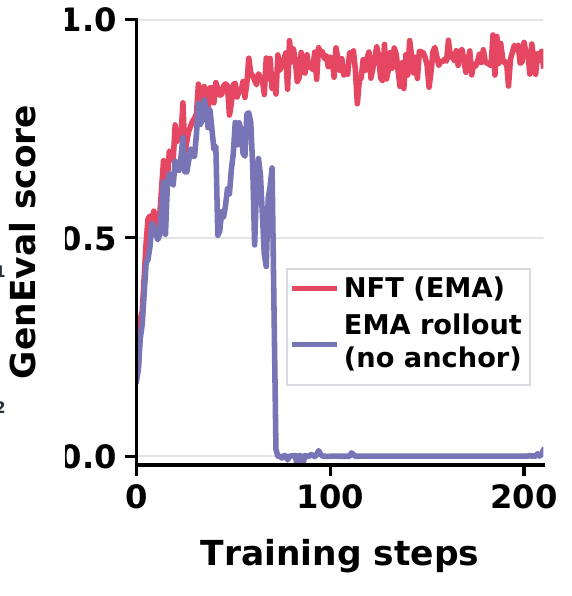
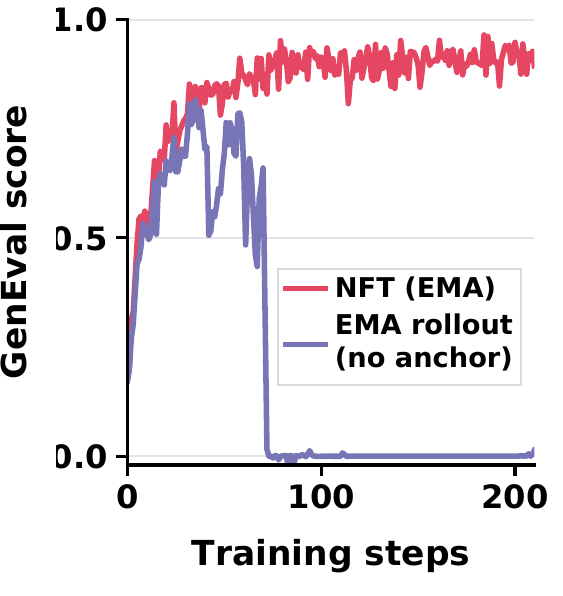
Clean the restoration panel crop without changing annotations

diff --git a/docs/index.html b/docs/index.html
@@ -48,7 +48,7 @@
         <figure class="research-figure"><a href="assets/consistency-force.webp"><img src="assets/consistency-force.webp" width="1078" height="775" loading="lazy" alt="NFT's positive pull and negative push only partially cancel their forward-reverse consistency forces."></a><figcaption>Opposing sample-level forces need not cancel.</figcaption></figure>
       </div>
       <div class="insight-row restoration-row">
-        <figure class="research-figure"><a href="assets/ema-restoration.webp"><img src="assets/ema-restoration.webp" width="572" height="596" loading="lazy" alt="GenEval reward collapses when EMA rollouts are retained but the old-policy restoration anchor is removed; NFT with EMA remains stable."></a><figcaption>EMA rollouts alone do not prevent collapse when the restoring anchor is removed.</figcaption></figure>
+        <figure class="research-figure"><a href="assets/ema-restoration.webp"><img src="assets/ema-restoration.webp?v=clean-panel" width="563" height="596" loading="lazy" alt="GenEval reward collapses when EMA rollouts are retained but the old-policy restoration anchor is removed; NFT with EMA remains stable."></a><figcaption>EMA rollouts alone do not prevent collapse when the restoring anchor is removed.</figcaption></figure>
         <div class="insight-copy"><h3>EMA helps through restoration,<br>not off-policy data alone.</h3><p>Keeping EMA-generated data but removing its restoring reference still leads to collapse in our ablation. The reference anchor is the crucial difference.</p><p>Small in output space does not mean small after aggregation: restoration has a smaller output-force RMS but a larger parameter-gradient norm than guidance.</p><p class="discovery"><strong>9.4× smaller</strong> output-force RMS.<br><strong>4.9× larger</strong> parameter-gradient norm.</p><p class="figure-note">Restoration versus guidance in the NFT ablation, averaged over the second updates of rollouts 0–17. These are observed ratios, not a universal scaling law.</p></div>
       </div>
     </section>

diff --git a/scripts/prepare_research_assets.py b/scripts/prepare_research_assets.py
@@ -23,7 +23,7 @@ def main():
     figures = args.release / 'source/Figures'
     panels = [
         ('fig2_legend_review_20261008.pdf', 'consistency-force.webp', (.51, 0, 1, 1)),
-        ('fig3_review_20261008_v2.pdf', 'ema-restoration.webp', (.295, .115, .555, .89)),
+        ('fig3_review_20261008_v2.pdf', 'ema-restoration.webp', (.299, .115, .555, .89)),
         ('DiffusionART_method_overview_time_fixed_20260928.pdf', 'aggregation-first.webp', (0, 0, 1, 1)),
         ('DiffusionART_method_overview_time_fixed_20260928.pdf', 'aggregation-force.webp', (0, 0, .495, 1)),
         ('DiffusionART_method_overview_time_fixed_20260928.pdf', 'aggregation-states.webp', (.5, 0, 1, 1)),
